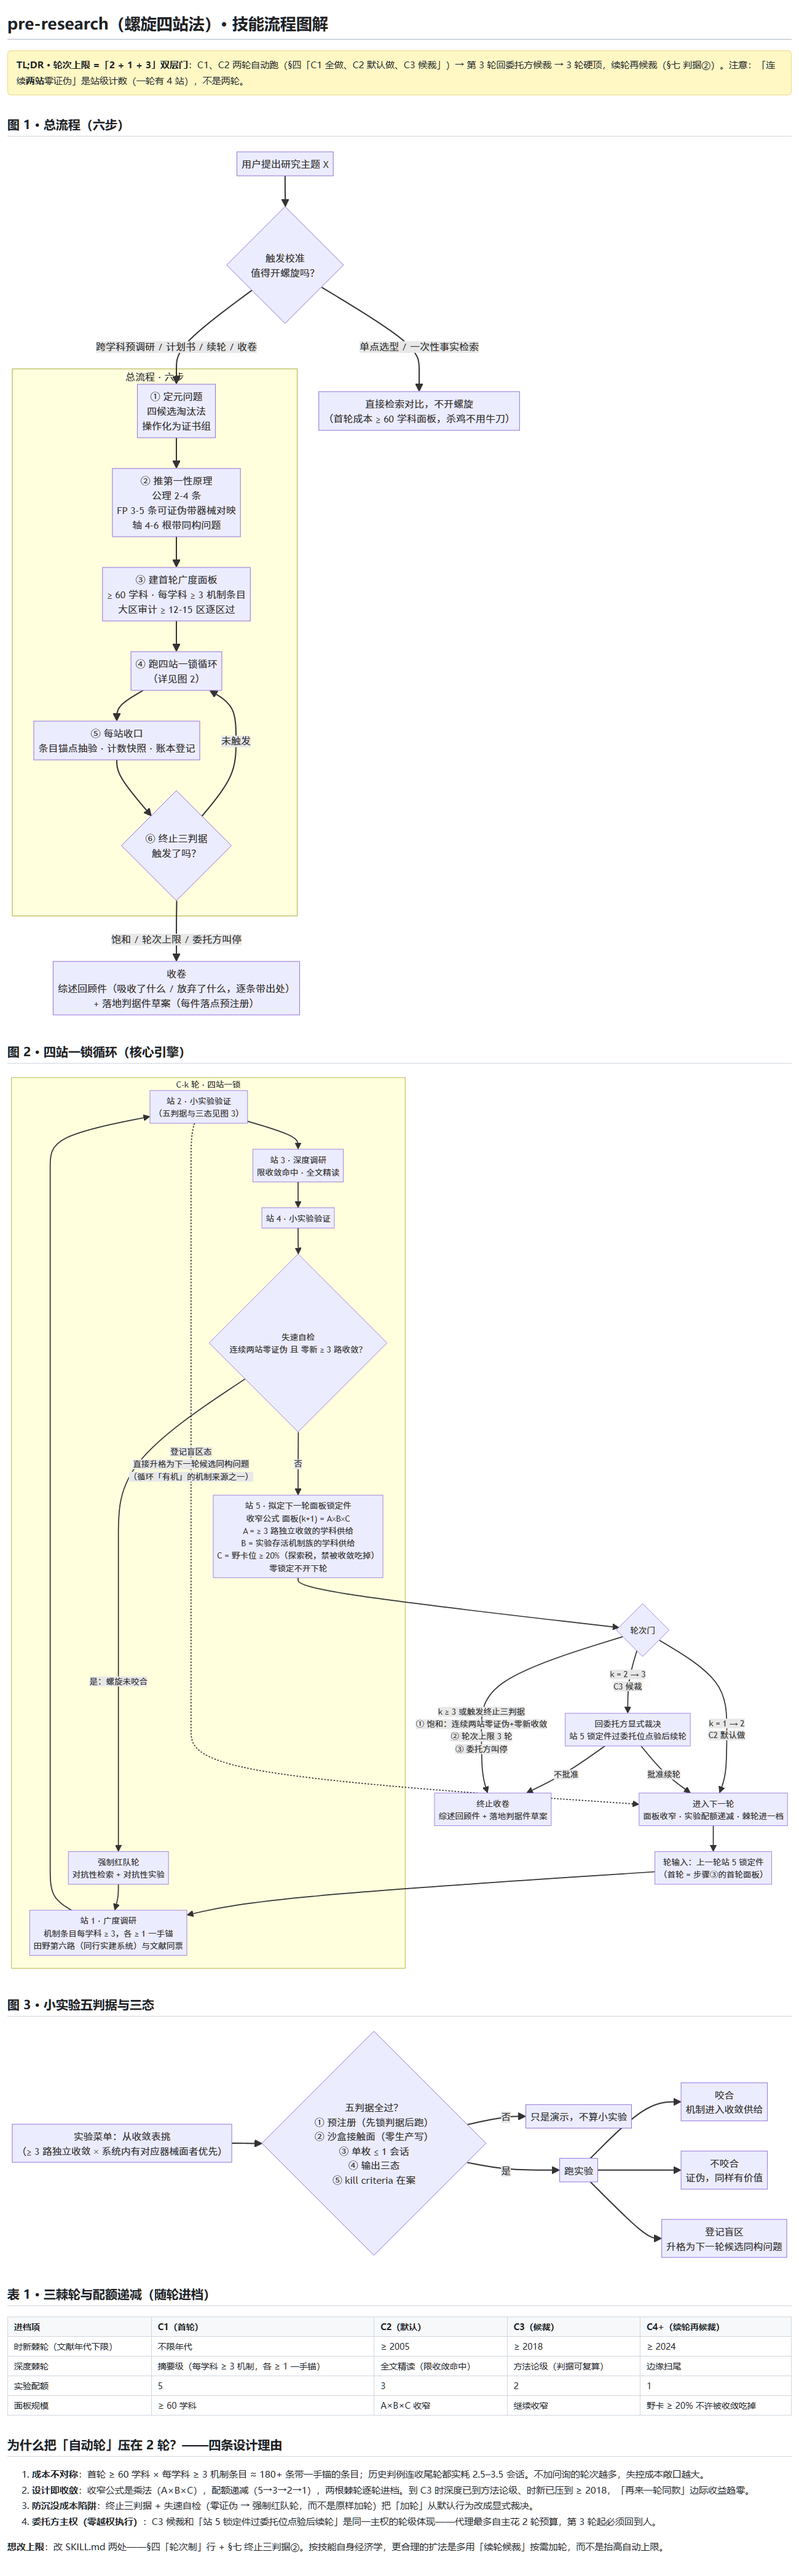
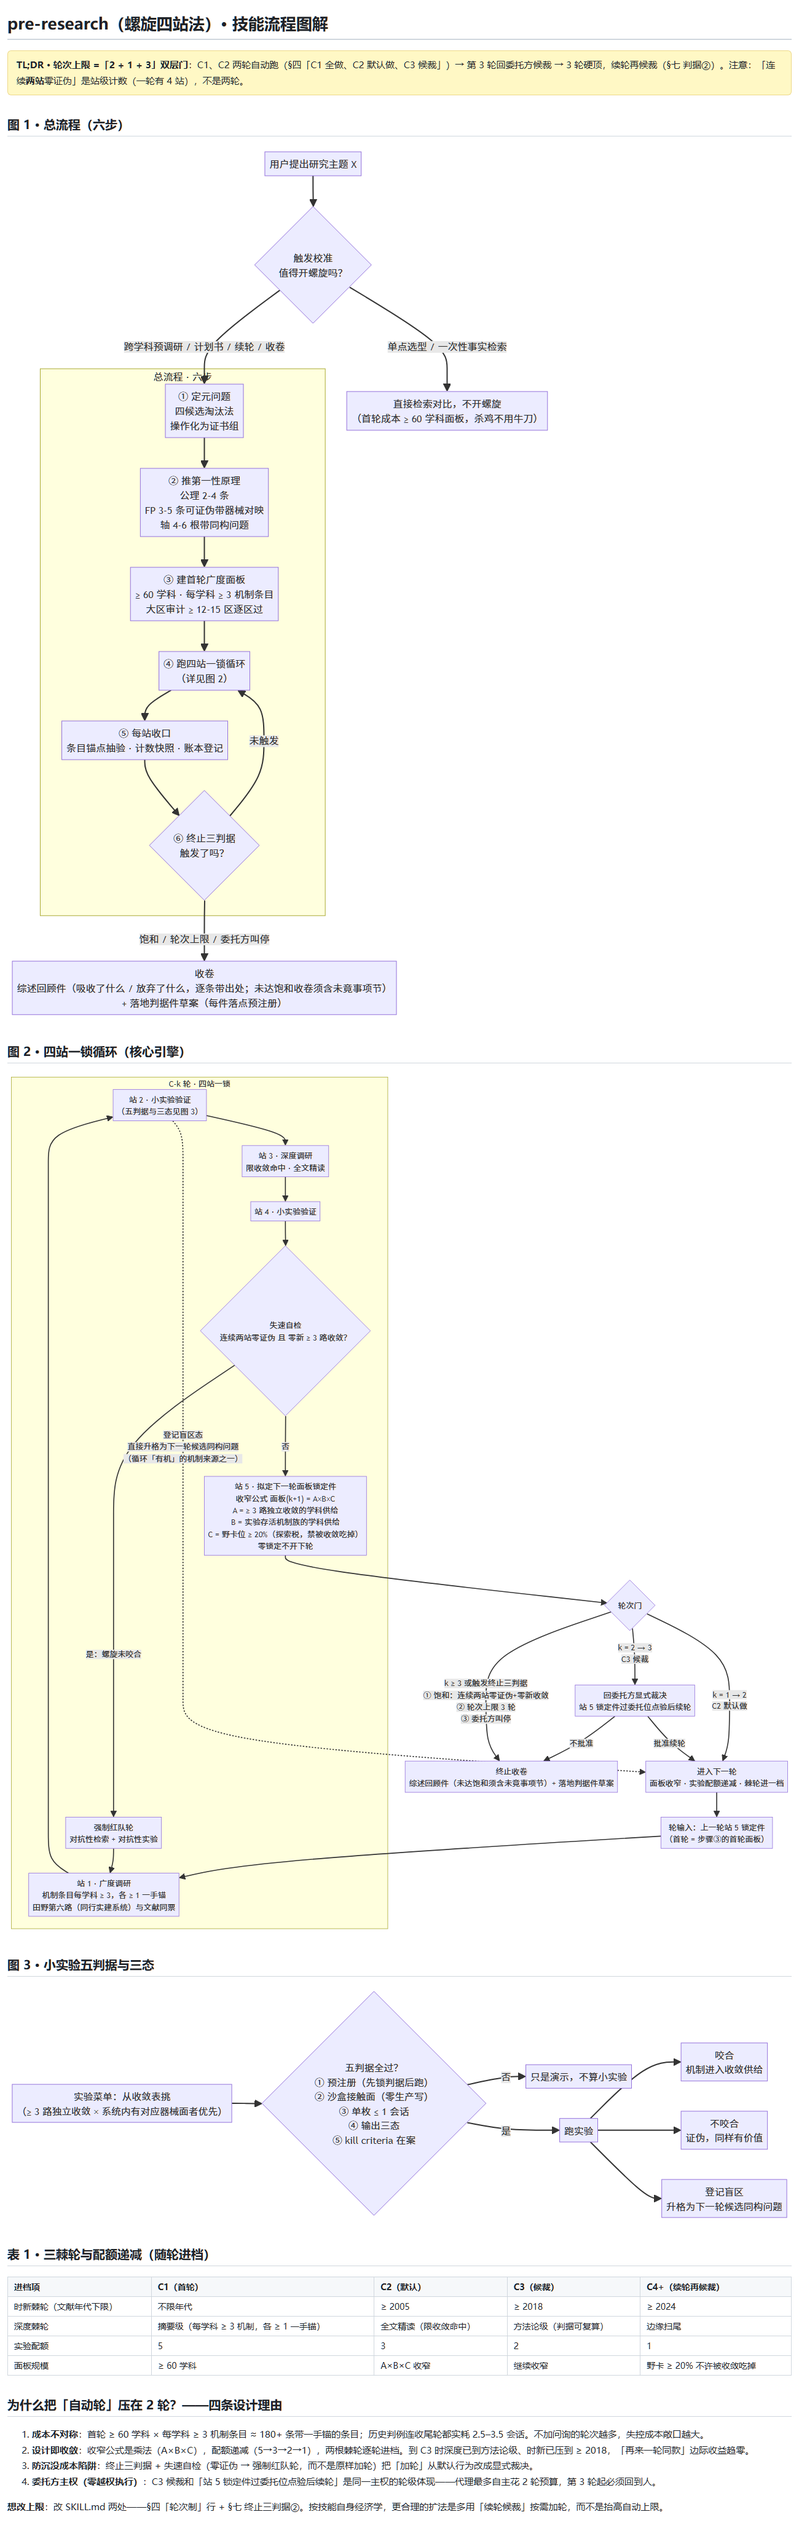
同步v1.1.0: 收卷节点标注未竟事项强制披露(未达饱和收卷须列未竟清单带差额与续轮建议)+版本记录; 重渲染长图

diff --git a/README.md b/README.md
@@ -44,7 +44,7 @@ flowchart TD
     end
 
     S6 -- "未触发" --> S4
-    S6 -- "饱和 / 轮次上限 / 委托方叫停" --> FIN["收卷<br/>综述回顾件（吸收了什么 / 放弃了什么，逐条带出处）<br/>+ 落地判据件草案（每件落点预注册）"]
+    S6 -- "饱和 / 轮次上限 / 委托方叫停" --> FIN["收卷<br/>综述回顾件（吸收了什么 / 放弃了什么，逐条带出处；未达饱和收卷须含未竟事项节）<br/>+ 落地判据件草案（每件落点预注册）"]
 ```
 
 **几个入口纪律**（防止面板「看起来很全」）：
@@ -80,7 +80,7 @@ flowchart TD
     ASK -- "批准续轮" --> NEXT
     ASK -- "不批准" --> FIN
 
-    GATE -- "k ≥ 3 或触发终止三判据<br/>① 饱和：连续两站零证伪+零新收敛<br/>② 轮次上限 3 轮<br/>③ 委托方叫停" --> FIN["终止收卷<br/>综述回顾件 + 落地判据件草案"]
+    GATE -- "k ≥ 3 或触发终止三判据<br/>① 饱和：连续两站零证伪+零新收敛<br/>② 轮次上限 3 轮<br/>③ 委托方叫停" --> FIN["终止收卷<br/>综述回顾件（未达饱和须含未竟事项节）+ 落地判据件草案"]
 
     W2 -. "登记盲区态<br/>直接升格为下一轮候选同构问题<br/>（循环「有机」的机制来源之一）" .-> NEXT
 ```
@@ -148,6 +148,7 @@ flowchart LR
 ## 来源与版本
 
 - 图解对象：pre-research 技能 v1.0.0（2026-10-01，agent_created）
+- 2026-10-02 v1.1.0：技能新增「**未竟事项强制披露**」——凡未达饱和（判据①）而收卷（轮次上限②/委托方叫停③），综述回顾件必须增设未竟事项节：未收敛同构问题（带差额：还差几路独立命中）/ 登记盲区实验 / 野卡未探面 / 棘轮未走完档位，每条带现状与续轮接续建议；禁「基本收敛」类掩盖措辞。饱和收卷可免。
 - 方法论源流：某演化机制预调研计划书 v1.2（2026-10-01）及其修订史
   （v1 → v1.1 补田野第六路 → v1.2 循环显式化 + 结构审计补录）
 - 实证参照：2026-10-02 首次实跑（C1/C2 两轮收口）
